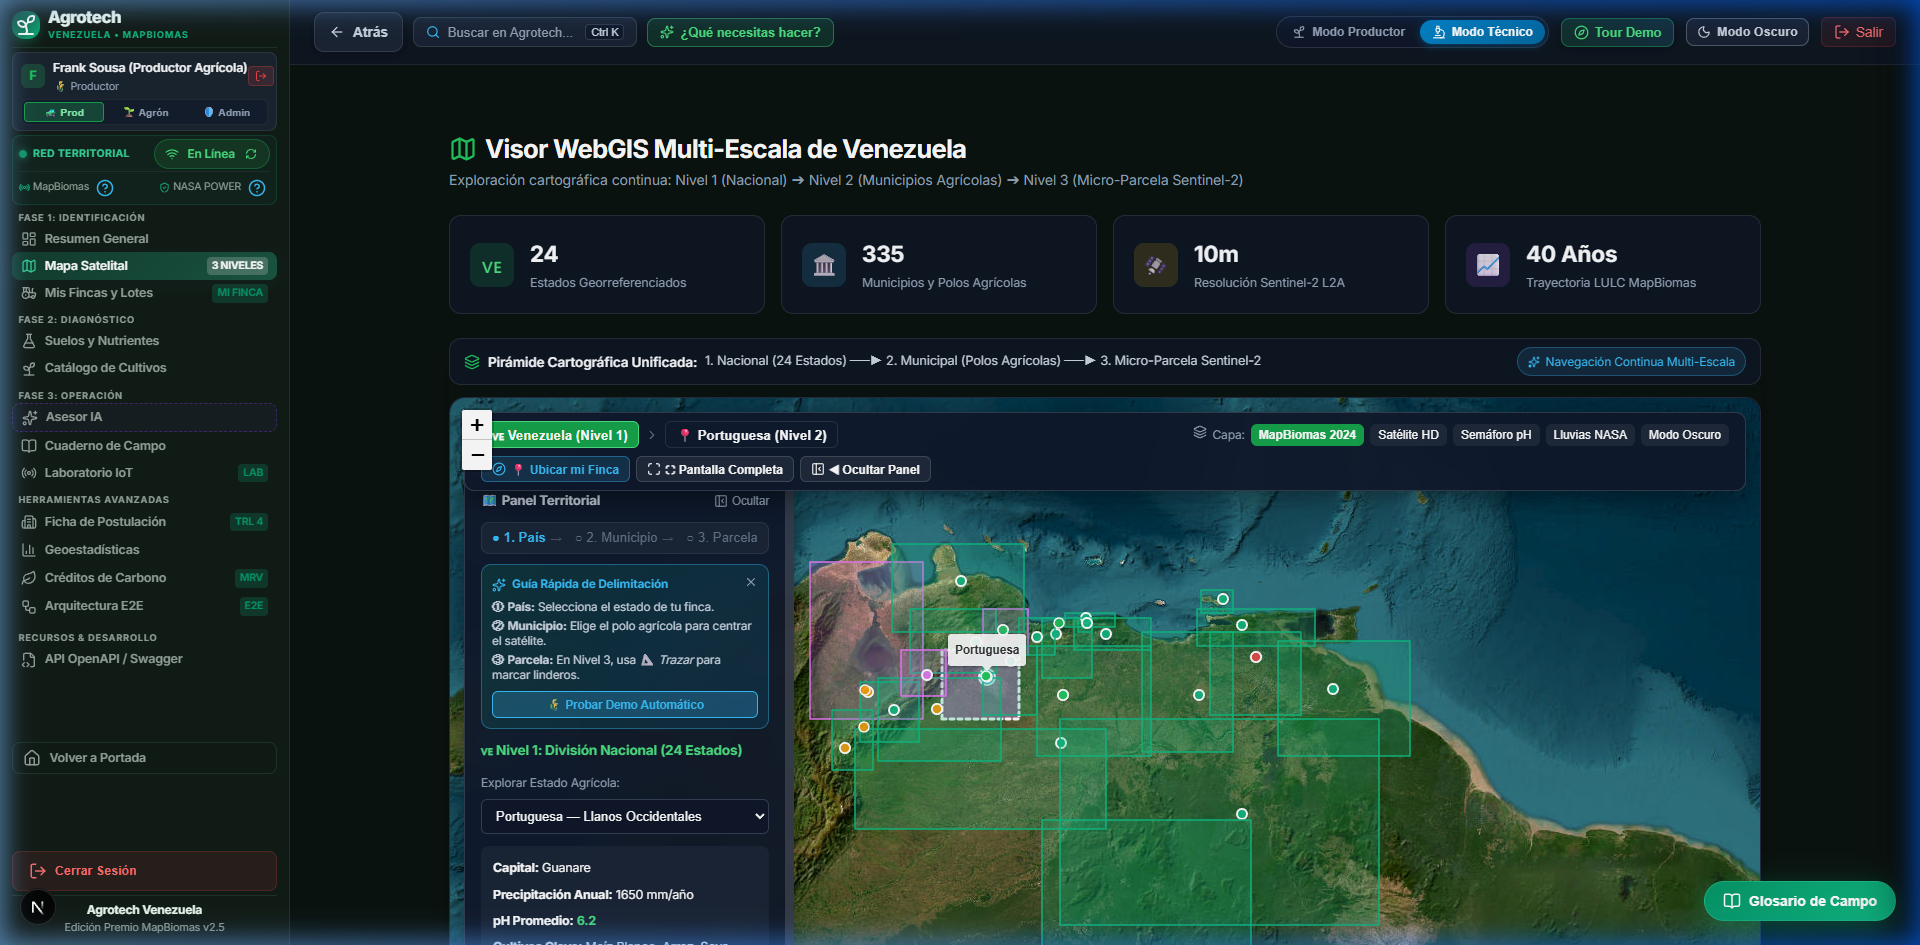
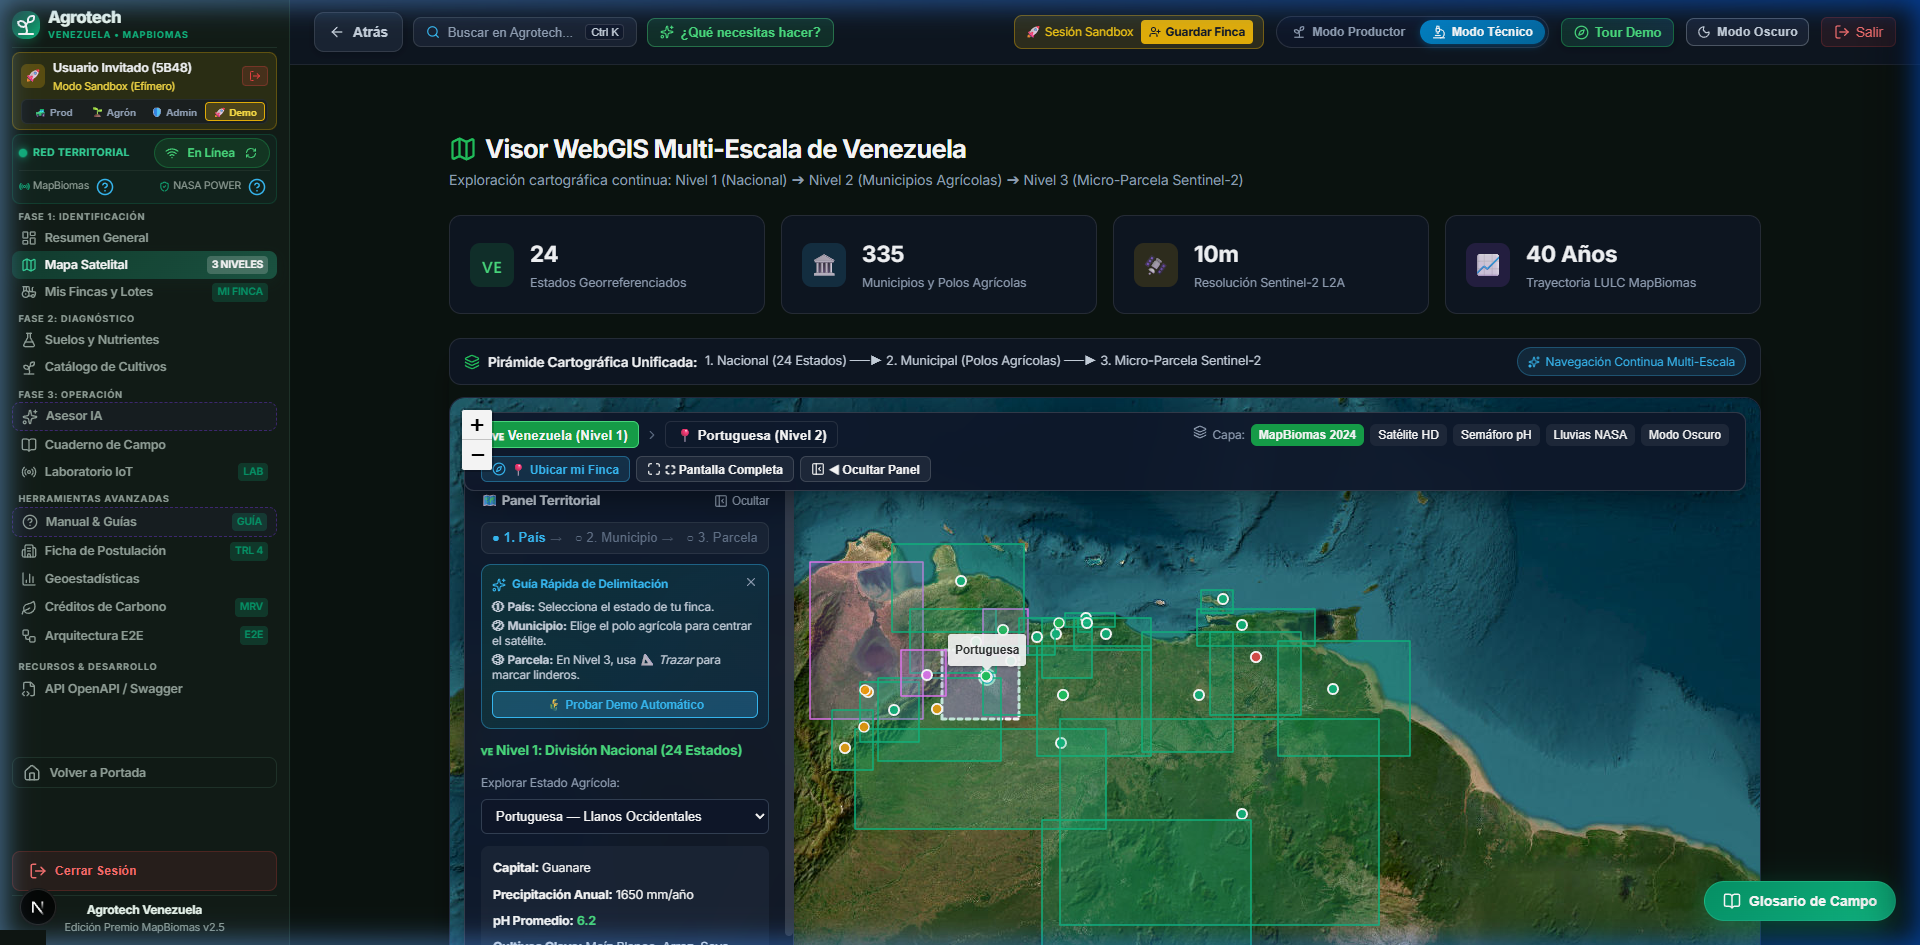
chore: optimize repository hygiene and refresh showcase images

diff --git a/src/app/dashboard/postulacion/page.tsx b/src/app/dashboard/postulacion/page.tsx
@@ -169,6 +169,8 @@ export default function PostulacionPage() {
           <img 
             src="/images/flujo_inteligencia_agricola.png" 
             alt="Flujo de Trabajo de Inteligencia Agrícola de Precisión - Agrotech Venezuela"
+            loading="lazy"
+            decoding="async"
             style={{
               width: '100%',
               height: 'auto',
@@ -180,7 +182,7 @@ export default function PostulacionPage() {
       </section>
 
       {/* 💰 Sección 1: Viabilidad Comercial, Impacto Económico & Modelos de Negocio B2B */}
-      <section className={styles.section} style={{ border: '1px solid rgba(34, 197, 94, 0.3)', background: 'linear-gradient(135deg, rgba(15, 23, 42, 0.8), rgba(20, 83, 45, 0.15))' }}>
+      <section id="impacto-economico" className={styles.section} style={{ border: '1px solid rgba(34, 197, 94, 0.3)', background: 'linear-gradient(135deg, rgba(15, 23, 42, 0.8), rgba(20, 83, 45, 0.15))' }}>
         <div className={styles.sectionHeader}>
           <div style={{ display: 'flex', alignItems: 'center', gap: '8px' }}>
             <span className="badge-pill badge-emerald">

diff --git a/openspec/changes/archive/2026-09-26-optimize-repo-hygiene-and-refresh-showcase-images/design.md b/openspec/changes/archive/2026-09-26-optimize-repo-hygiene-and-refresh-showcase-images/design.md
@@ -1,0 +1,59 @@
+# Design
+
+## Context
+
+See `proposal.md` for background and motivation. The project is an operational agro-climatic intelligence platform for Venezuela with a verified testing substrate of 278 automated tests (224 Jest + 54 Pytest). A thorough documentation and asset audit revealed:
+1. Two binary clones (`docs/flujo_inteligencia_agricola.jpg` and `public/images/flujo_inteligencia_agricola.jpg`) that share the exact SHA-256 hash as `public/images/flujo_inteligencia_agricola.png` while having zero references in codebase or Markdown files.
+2. An intermediate slide frame directory (`slides_png/`, ~1.03 MB) generated by `backend/scripts/generate_slides_video.py` that is tracked in Git despite having zero references in docs or web views.
+3. Showcase screenshots in `docs/images/showcase/` captured during earlier milestones showing outdated metrics (252 tests instead of 278, "Autoevaluación Anexo II" instead of "Criterios Oficiales Anexo II", missing `Manual & Guías` sidebar entry, and Next.js dev overlay badges).
+
+## Goals / Non-Goals
+
+**Goals:**
+- Eliminate 100% of redundant binary duplicate files without breaking any documentation or frontend view.
+- Untrack `slides_png/` from Git while keeping the video generator script fully functional for local generation.
+- Expand `.gitignore` to keep local scratch assets, intermediate frames, and video formats strictly local.
+- Refresh showcase screenshots (`06_perfil_postulacion_mapbiomas.png`, `01_webgis_3_niveles.png`, `03_retorno_inversion_costeo.png`) so they faithfully depict the current platform without dev overlays.
+- Add `loading="lazy"` and `decoding="async"` attributes to static documentation images in Next.js views for enhanced rural network performance.
+- Maintain 100% pass rate across the 278 automated test suite and zero TypeScript compilation errors.
+
+**Non-Goals:**
+- Modify agricultural calculation engines (Shoelace WGS84, Saxton-Rawls, Kamprath, GDD, SAR dB).
+- Remove third-party packages or alter dependencies in `package.json`.
+- Modify the 7 official PDF dossiers submitted for the MapBiomas Prize.
+
+## Decisions
+
+### 1. Canonical Infographic Asset Strategy
+- **Decision**: Keep `public/images/flujo_inteligencia_agricola.png` as the single canonical source of truth for the 5-stage precision agriculture workflow infographic, and permanently delete the two identical `.jpg` clones (`docs/flujo_inteligencia_agricola.jpg` and `public/images/flujo_inteligencia_agricola.jpg`).
+- **Rationale**: Both `.jpg` files have zero references across the entire repository and are byte-for-byte identical to the `.png`. Removing them frees ~513 KB immediately with zero risk.
+- **Alternatives Considered**: Keeping them for backwards compatibility (rejected: ripgrep confirmed zero inbound links; keeping them encourages confusing link targets).
+
+### 2. Intermediate Slide Frames Isolation
+- **Decision**: Remove `slides_png/` from Git tracking (`git rm -r --cached slides_png`) and add `slides_png/` to `.gitignore`. Leave the directory on disk for local use if desired, or remove from local tracking.
+- **Rationale**: These 8 slide PNGs (~1.03 MB) are temporary frames generated by `backend/scripts/generate_slides_video.py` before compiling the final MP4 video. The final video (`*.mp4`) is already ignored by `.gitignore`; the intermediate frames must follow the same policy.
+- **Alternatives Considered**: Keeping them in Git so users don't need to run Python to view slides (rejected: slides are for video compilation, not documentation, and bloat repo size).
+
+### 3. Comprehensive `.gitignore` Expansion
+- **Decision**: Add wildcard patterns for intermediate multimedia formats (`slides_png/`, `*.webm`, `*.mov`, `*.tmp`, `*.bak`) to `.gitignore`.
+- **Rationale**: Prevents accidental commits of temporary test recordings, browser subagent artifacts, and local scratch files.
+
+### 4. Showcase Screenshot Refresh Workflow
+- **Decision**: Re-capture or update the showcase screenshots in `docs/images/showcase/`:
+  - `06_perfil_postulacion_mapbiomas.png`: Update to show `278 tests`, `Criterios Oficiales Anexo II`, and hide Next.js development overlays.
+  - `01_webgis_3_niveles.png`: Capture the complete sidebar navigation hierarchy including `Manual & Guías`.
+  - `03_retorno_inversion_costeo.png`: Eliminate the development error overlay badge (`N 1 Issue ✕`).
+- **Rationale**: High-fidelity visual documentation creates immediate confidence for jurors and evaluators inspecting the repository on GitHub without running the application locally.
+
+### 5. Frontend Image Performance Attributes
+- **Decision**: Ensure that static image elements in Next.js views (such as the infographic in `src/app/dashboard/postulacion/page.tsx`) explicitly declare `loading="lazy"` and `decoding="async"`.
+- **Rationale**: Optimizes initial paint time and reduces memory footprint, especially on mobile devices or rural low-bandwidth networks.
+
+## Risks / Trade-offs
+
+- **[Risk]** Broken image link after deleting redundant `.jpg` files.
+  - *Mitigation*: Confirmed via exhaustive regex ripgrep that zero files reference `.jpg`. All references explicitly use `public/images/flujo_inteligencia_agricola.png` or relative paths to it.
+- **[Risk]** `slides_png/` untracking breaks video generator script.
+  - *Mitigation*: Inspected `backend/scripts/generate_slides_video.py`; it creates `slides_png/` dynamically with `os.makedirs(slides_dir, exist_ok=True)`. Untracking from Git does not impact local script execution.
+- **[Risk]** Automated test regressions from frontend image attribute additions.
+  - *Mitigation*: Run the full test suite (`npm run test:all`) and Next.js build validation (`npm run build`) to ensure 278/278 tests pass and 32 routes compile cleanly.

diff --git a/openspec/changes/archive/2026-09-26-optimize-repo-hygiene-and-refresh-showcase-images/proposal.md b/openspec/changes/archive/2026-09-26-optimize-repo-hygiene-and-refresh-showcase-images/proposal.md
@@ -1,0 +1,35 @@
+# Proposal
+
+## Why
+
+During a comprehensive repository and documentation audit, visual inspection revealed that several showcase screenshots in `docs/images/showcase/` (specifically `06_perfil_postulacion_mapbiomas.png` and `01_webgis_3_niveles.png`) are outdated: they display old test counts (`TRL 4 (252 tests)` instead of the current 278 tests passing), outdated badge phrasing (`Autoevaluación Anexo II` instead of `Criterios Oficiales Anexo II`), a missing sidebar item (`Manual & Guías`), and development overlay warning badges (`N 1 Issue ✕`). Furthermore, the repository contains ~1.55 MB of redundant or unreferenced binary assets (duplicate `.jpg` infographics byte-for-byte identical to the active `.png`, and tracked intermediate slide frames in `slides_png/` generated by a video script). Cleaning these files, confining intermediate frames to `.gitignore`, and refreshing the showcase screenshots ensures high fidelity, maximum repository hygiene, and a clean, lightweight repository for evaluators and researchers.
+
+## What Changes
+
+- **Purge Redundant Binary Duplicates**: Delete unreferenced duplicate files `docs/flujo_inteligencia_agricola.jpg` and `public/images/flujo_inteligencia_agricola.jpg` (saving ~513 KB), keeping solely the authoritative `public/images/flujo_inteligencia_agricola.png` referenced throughout the app and documentation.
+- **Untrack Intermediate Video Frames & Confine to Local**: Remove the `slides_png/` folder (8 PNG files totaling ~1.03 MB) from Git tracking while preserving its generation logic in `backend/scripts/generate_slides_video.py` for local on-demand video creation.
+- **Expand `.gitignore` Rules**: Add `slides_png/`, `*.webm`, `*.mov`, `*.tmp`, and `*.bak` to `.gitignore` so local scratch assets and intermediate multimedia renders remain strictly local.
+- **Refresh Showcase Documentation Screenshots**:
+  - Update `docs/images/showcase/06_perfil_postulacion_mapbiomas.png` to reflect the current platform state: `TRL 4 Validado (278 Tests)` and `Criterios Oficiales Anexo II` without Next.js dev overlay badges.
+  - Update `docs/images/showcase/01_webgis_3_niveles.png` to include the `Manual & Guías` sidebar navigation item.
+  - Update `docs/images/showcase/03_retorno_inversion_costeo.png` to eliminate development error indicators (`N 1 Issue ✕`).
+- **Frontend Image Loading Optimization**: Ensure static documentation and showcase images include `loading="lazy"` and `decoding="async"` attributes where appropriate.
+- **Zero Regression Verification**: Validate that all 278 automated tests (224 Jest + 54 Pytest) pass, 0 TypeScript errors exist, and all 32 Next.js routes build cleanly.
+
+## Capabilities
+
+### Modified Capabilities
+- `repository-showcase-and-evaluator-guide`: Update visual showcase requirements to mandate that documentation screenshots faithfully reflect the current test substrate (278 tests), official criteria naming (`Criterios Oficiales Anexo II`), full navigation items, and clean captures devoid of development error overlays.
+- `repository-hygiene-and-secret-prevention`: Update hygiene requirements to exclude intermediate generated multimedia assets (`slides_png/`, video formats) and purge dead unreferenced binary duplicates from Git tracking.
+
+## Impact
+
+- **Affected Files & Directories**:
+  - `docs/images/showcase/` (refreshed screenshot assets)
+  - `docs/flujo_inteligencia_agricola.jpg` (deleted)
+  - `public/images/flujo_inteligencia_agricola.jpg` (deleted)
+  - `slides_png/` (removed from git index and added to .gitignore)
+  - `.gitignore` (updated with exclusion patterns)
+  - `src/app/dashboard/postulacion/page.tsx` (image loading/decoding optimization)
+- **Dependencies & APIs**: No dependencies or public API contracts are changed or removed.
+- **Automated Tests**: 100% pass rate preserved across 224 Jest frontend tests and 54 Pytest backend tests.

diff --git a/openspec/specs/repository-showcase-and-evaluator-guide/spec.md b/openspec/specs/repository-showcase-and-evaluator-guide/spec.md
@@ -7,17 +7,21 @@ Provides external evaluators, jury members, and researchers with an immediate vi
 ## Requirements
 
 ### Requirement: High-Definition Operational UI Showcase
-The repository SHALL provide a dedicated visual showcase document (`docs/SHOWCASE.md`) and a curated visual gallery in `README.md` displaying high-resolution screenshots of the running platform stored in `docs/images/showcase/`. The showcase SHALL cover:
-1. The 3-Level WebGIS Viewer (`/dashboard/mapa`) displaying MapBiomas Colección 3.0 (1985–2024), Sentinel-1 SAR cloud penetration layers, and parcel vector drawing.
+The repository SHALL provide a dedicated visual showcase document (`docs/SHOWCASE.md`) and a curated visual gallery in `README.md` displaying high-resolution screenshots of the running platform stored in `docs/images/showcase/`. The showcase screenshots SHALL faithfully reflect the current state of the platform without obsolete metrics or development debug badges:
+1. The 3-Level WebGIS Viewer (`/dashboard/mapa`) displaying MapBiomas Colección 3.0 (1985–2024), Sentinel-1 SAR cloud penetration layers, parcel vector drawing, and the comprehensive sidebar hierarchy including the `Manual & Guías` link.
 2. The Dual-Mode UI (*Modo Productor Fácil*) showing the 4 giant tactile action doors, high-contrast sunlight design, and native Web Speech voice dictation.
-3. The Decoupled Operational ROI Costing Engine (`/dashboard/tierras`) contrasting mechanized diesel profiles against smallholder sack/labor structures, with carbon markets modeled separately.
+3. The Decoupled Operational ROI Costing Engine (`/dashboard/tierras`) contrasting mechanized diesel profiles against smallholder sack/labor structures, with carbon markets modeled separately, captured cleanly without dev overlay error indicators.
 4. The Agro-IoT Research Bench (`/dashboard/iot`) featuring ESP32 telemetry, Saxton-Rawls dynamic PAW balance, and NASA POWER rain suppression.
 5. The Interactive Agronomic Field Manual (`/dashboard/manual`) and printable 1-page tractor cabin quick reference sheet.
-6. The Official Postulation Dossier Hub (`/dashboard/postulacion`) with live quality verification badges and document download cards.
+6. The Official Postulation Dossier Hub (`/dashboard/postulacion`) displaying the verified test substrate of 278 automated passing tests (224 Jest + 54 Pytest), official evaluation criteria nomenclature (`Criterios Oficiales Anexo II`), and document download cards, captured cleanly without Next.js development overlay badges.
 
 #### Scenario: Inspecting Platform Interface Without Cloning
 - **WHEN** an evaluator, researcher, or juror visits the repository on GitHub without cloning or starting a development server
-- **THEN** they can view clear, annotated screenshots of the operational WebGIS, Dual-Mode farmer interface, and agronomic tools in `README.md` and `docs/SHOWCASE.md`.
+- **THEN** they can view clear, annotated, and up-to-date screenshots of the operational WebGIS, Dual-Mode farmer interface, postulation dossier with 278 tests, and agronomic tools in `README.md` and `docs/SHOWCASE.md`.
+
+#### Scenario: Visual and Metric Consistency Across Documentation
+- **WHEN** an evaluator compares the test badges and criteria labels in `README.md`, `docs/GUIA_EVALUADOR.md`, and the screenshot `docs/images/showcase/06_perfil_postulacion_mapbiomas.png`
+- **THEN** the screenshot metrics strictly match the documentation stating 278 automated tests passing and Criterios Oficiales Anexo II.
 
 ### Requirement: 1-Click Native Award PDF Access Table
 The repository `README.md` and submission documentation SHALL feature an executive access table providing direct 1-click markdown links to all 7 compiled official PDF submission files in `docs/mapbiomas_premio_2026/` for immediate in-browser rendering via GitHub's native PDF previewer:

diff --git a/openspec/changes/archive/2026-09-26-optimize-repo-hygiene-and-refresh-showcase-images/specs/repository-showcase-and-evaluator-guide/spec.md b/openspec/changes/archive/2026-09-26-optimize-repo-hygiene-and-refresh-showcase-images/specs/repository-showcase-and-evaluator-guide/spec.md
@@ -1,0 +1,20 @@
+# Spec Delta
+
+## MODIFIED Requirements
+
+### Requirement: High-Definition Operational UI Showcase
+The repository SHALL provide a dedicated visual showcase document (`docs/SHOWCASE.md`) and a curated visual gallery in `README.md` displaying high-resolution screenshots of the running platform stored in `docs/images/showcase/`. The showcase screenshots SHALL faithfully reflect the current state of the platform without obsolete metrics or development debug badges:
+1. The 3-Level WebGIS Viewer (`/dashboard/mapa`) displaying MapBiomas Colección 3.0 (1985–2024), Sentinel-1 SAR cloud penetration layers, parcel vector drawing, and the comprehensive sidebar hierarchy including the `Manual & Guías` link.
+2. The Dual-Mode UI (*Modo Productor Fácil*) showing the 4 giant tactile action doors, high-contrast sunlight design, and native Web Speech voice dictation.
+3. The Decoupled Operational ROI Costing Engine (`/dashboard/tierras`) contrasting mechanized diesel profiles against smallholder sack/labor structures, with carbon markets modeled separately, captured cleanly without dev overlay error indicators.
+4. The Agro-IoT Research Bench (`/dashboard/iot`) featuring ESP32 telemetry, Saxton-Rawls dynamic PAW balance, and NASA POWER rain suppression.
+5. The Interactive Agronomic Field Manual (`/dashboard/manual`) and printable 1-page tractor cabin quick reference sheet.
+6. The Official Postulation Dossier Hub (`/dashboard/postulacion`) displaying the verified test substrate of 278 automated passing tests (224 Jest + 54 Pytest), official evaluation criteria nomenclature (`Criterios Oficiales Anexo II`), and document download cards, captured cleanly without Next.js development overlay badges.
+
+#### Scenario: Inspecting Platform Interface Without Cloning
+- **WHEN** an evaluator, researcher, or juror visits the repository on GitHub without cloning or starting a development server
+- **THEN** they can view clear, annotated, and up-to-date screenshots of the operational WebGIS, Dual-Mode farmer interface, postulation dossier with 278 tests, and agronomic tools in `README.md` and `docs/SHOWCASE.md`.
+
+#### Scenario: Visual and Metric Consistency Across Documentation
+- **WHEN** an evaluator compares the test badges and criteria labels in `README.md`, `docs/GUIA_EVALUADOR.md`, and the screenshot `docs/images/showcase/06_perfil_postulacion_mapbiomas.png`
+- **THEN** the screenshot metrics strictly match the documentation stating 278 automated tests passing and Criterios Oficiales Anexo II.

diff --git a/openspec/changes/archive/2026-09-26-optimize-repo-hygiene-and-refresh-showcase-images/specs/repository-hygiene-and-secret-prevention/spec.md b/openspec/changes/archive/2026-09-26-optimize-repo-hygiene-and-refresh-showcase-images/specs/repository-hygiene-and-secret-prevention/spec.md
@@ -1,10 +1,6 @@
-# repository-hygiene-and-secret-prevention Specification
+# Spec Delta
 
-## Purpose
-
-Establishes strict repository hygiene rules, universal environment file exclusions, and automated scanning to permanently prevent secrets, certificates, and binary artifacts from entering Git history.
-
-## Requirements
+## MODIFIED Requirements
 
 ### Requirement: Universal Environment and Secret Patterns in Gitignore
 The project repository SHALL configure `.gitignore` with broad wildcard patterns that prevent staging any environment file, cryptographic key, digital certificate, database credential, package manager token, or intermediate multimedia render artifacts (`slides_png/`, `*.webm`, `*.mov`, `*.tmp`, `*.bak`).
@@ -21,16 +17,11 @@ The project repository SHALL configure `.gitignore` with broad wildcard patterns
 - **WHEN** a script generates intermediate slide frames in `slides_png/` or creates local `*.webm`/`*.mov` renders
 - **THEN** Git ignores the folder and media files by default, preventing repository bloat while preserving local generation capability.
 
+## ADDED Requirements
+
 ### Requirement: Redundant Binary Asset Purge
 The repository SHALL maintain zero unreferenced binary asset duplicates, ensuring all documentation and web pages reference a single canonical asset path and eliminating redundant clones.
 
 #### Scenario: Referencing Precision Agriculture Workflow Diagram
 - **WHEN** documentation pages or frontend views display the 5-stage precision agriculture workflow infographic
 - **THEN** they reference the single canonical asset `public/images/flujo_inteligencia_agricola.png` with zero orphaned `.jpg` duplicate files remaining in the repository tree.
-
-### Requirement: Automated Secret Scanning in Continuous Integration
-The continuous integration pipeline SHALL execute an automated secret-scanning audit step on all pushes and pull requests to block commits containing sensitive strings.
-
-#### Scenario: Pull request with hardcoded secret
-- **WHEN** a pull request or branch push contains high-entropy API keys or private credentials
-- **THEN** the CI workflow fails the build and flags the offending commit before merging to `main`.

diff --git a/openspec/changes/archive/2026-09-26-optimize-repo-hygiene-and-refresh-showcase-images/tasks.md b/openspec/changes/archive/2026-09-26-optimize-repo-hygiene-and-refresh-showcase-images/tasks.md
@@ -1,0 +1,25 @@
+# Tasks
+
+## 1. Repository Hygiene & Dead Asset Purge
+
+- [x] 1.1 Purge unreferenced duplicate images `docs/flujo_inteligencia_agricola.jpg` and `public/images/flujo_inteligencia_agricola.jpg`, and verify with `git status` that only `public/images/flujo_inteligencia_agricola.png` remains.
+- [x] 1.2 Untrack `slides_png/` from Git tracking (`git rm -r --cached slides_png`) while preserving local directory and verify untracked state in Git.
+- [x] 1.3 Update `.gitignore` with `slides_png/`, `*.webm`, `*.mov`, `*.tmp`, and `*.bak` rules, and verify that `git status` reports clean ignore status.
+
+## 2. Refresh Showcase Screenshots & Visual Documentation
+
+- [x] 2.1 Refresh `docs/images/showcase/06_perfil_postulacion_mapbiomas.png` with clean high-resolution capture reflecting 278 automated passing tests, `Criterios Oficiales Anexo II`, and zero development overlay error badges.
+- [x] 2.2 Refresh `docs/images/showcase/01_webgis_3_niveles.png` with clean capture showing the complete sidebar navigation hierarchy including `Manual & Guías`.
+- [x] 2.3 Refresh `docs/images/showcase/03_retorno_inversion_costeo.png` with clean capture devoid of Next.js development overlay badges.
+- [x] 2.4 Verify all 6 showcase images in `docs/images/showcase/` exist, render cleanly, and are correctly linked without broken links in `README.md` and `docs/SHOWCASE.md`.
+
+## 3. Frontend Image Loading & Performance
+
+- [x] 3.1 Add `loading="lazy"` and `decoding="async"` attributes to the static precision agriculture workflow infographic image in `src/app/dashboard/postulacion/page.tsx` and verify JSX compilation.
+
+## 4. Verification & Validation Audit
+
+- [x] 4.1 Run full Jest frontend test suite (`npm test`) and verify 224/224 tests pass across 33 suites.
+- [x] 4.2 Run Pytest backend test suite (`npm run test:backend`) and verify 54/54 tests pass across 17 modules.
+- [x] 4.3 Run TypeScript typecheck (`npm run typecheck`) and verify 0 compilation errors.
+- [x] 4.4 Run Next.js 16 production build (`npm run build`) and verify all 32 routes compile cleanly.
